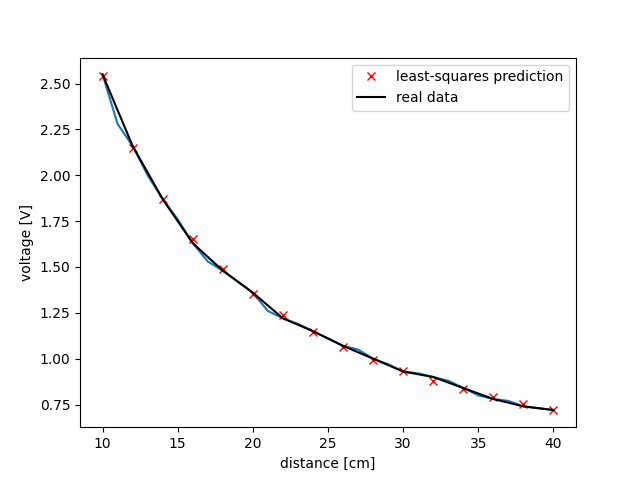
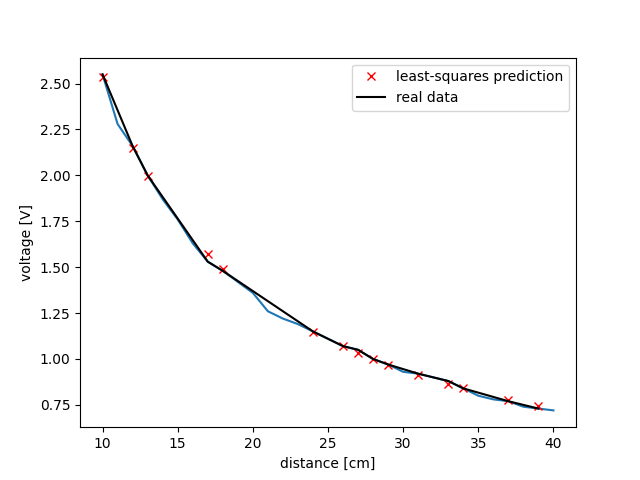
random pick data

diff --git a/Lab/calibrate.py b/Lab/calibrate.py
@@ -6,6 +6,21 @@ voltage=k1*distance**(k2)
 """
 import numpy as np
 import matplotlib.pyplot as plt
+
+def generate_random(length):
+    import random
+
+    index = list(np.arange(0,length,1))
+    x = random.sample(y, int(length/2))
+    x.sort()
+    y = []
+
+    for i in index:
+        if i in x:
+            continue
+        y.append(i)
+    
+    return x, y
  
 # data for estimation
 distances = np.arange(10, 41, 1)
@@ -15,12 +30,13 @@ plt.xlabel('distance [cm]')
 plt.ylabel('voltage [V]')
 plt.savefig('general_shape.png')
 
-distances_trimed=distances[::2]
-raw_measurements_total_trimed=raw_measurements_total[::2]
+sample1, sample2 = generate_random(len(distances))
+distances_trimed=distances[sample1]
+raw_measurements_total_trimed=raw_measurements_total[sample1]
  
 # validation data 
-distances2=distances[1::2]
-raw_measurements2=raw_measurements_total[1::2]
+distances2=distances[sample2]
+raw_measurements2=raw_measurements_total[sample2]
  
 print(distances_trimed)
 print(distances2)

diff --git a/Lab/test.py b/Lab/test.py
@@ -1,0 +1,12 @@
+import random
+import numpy as np
+
+y = list(np.arange(0,31,1))
+x = random.sample(y, 15)
+x.sort()
+z = []
+for i in y:
+    if i in x:
+        continue
+    z.append(i)
+print(x, z)
